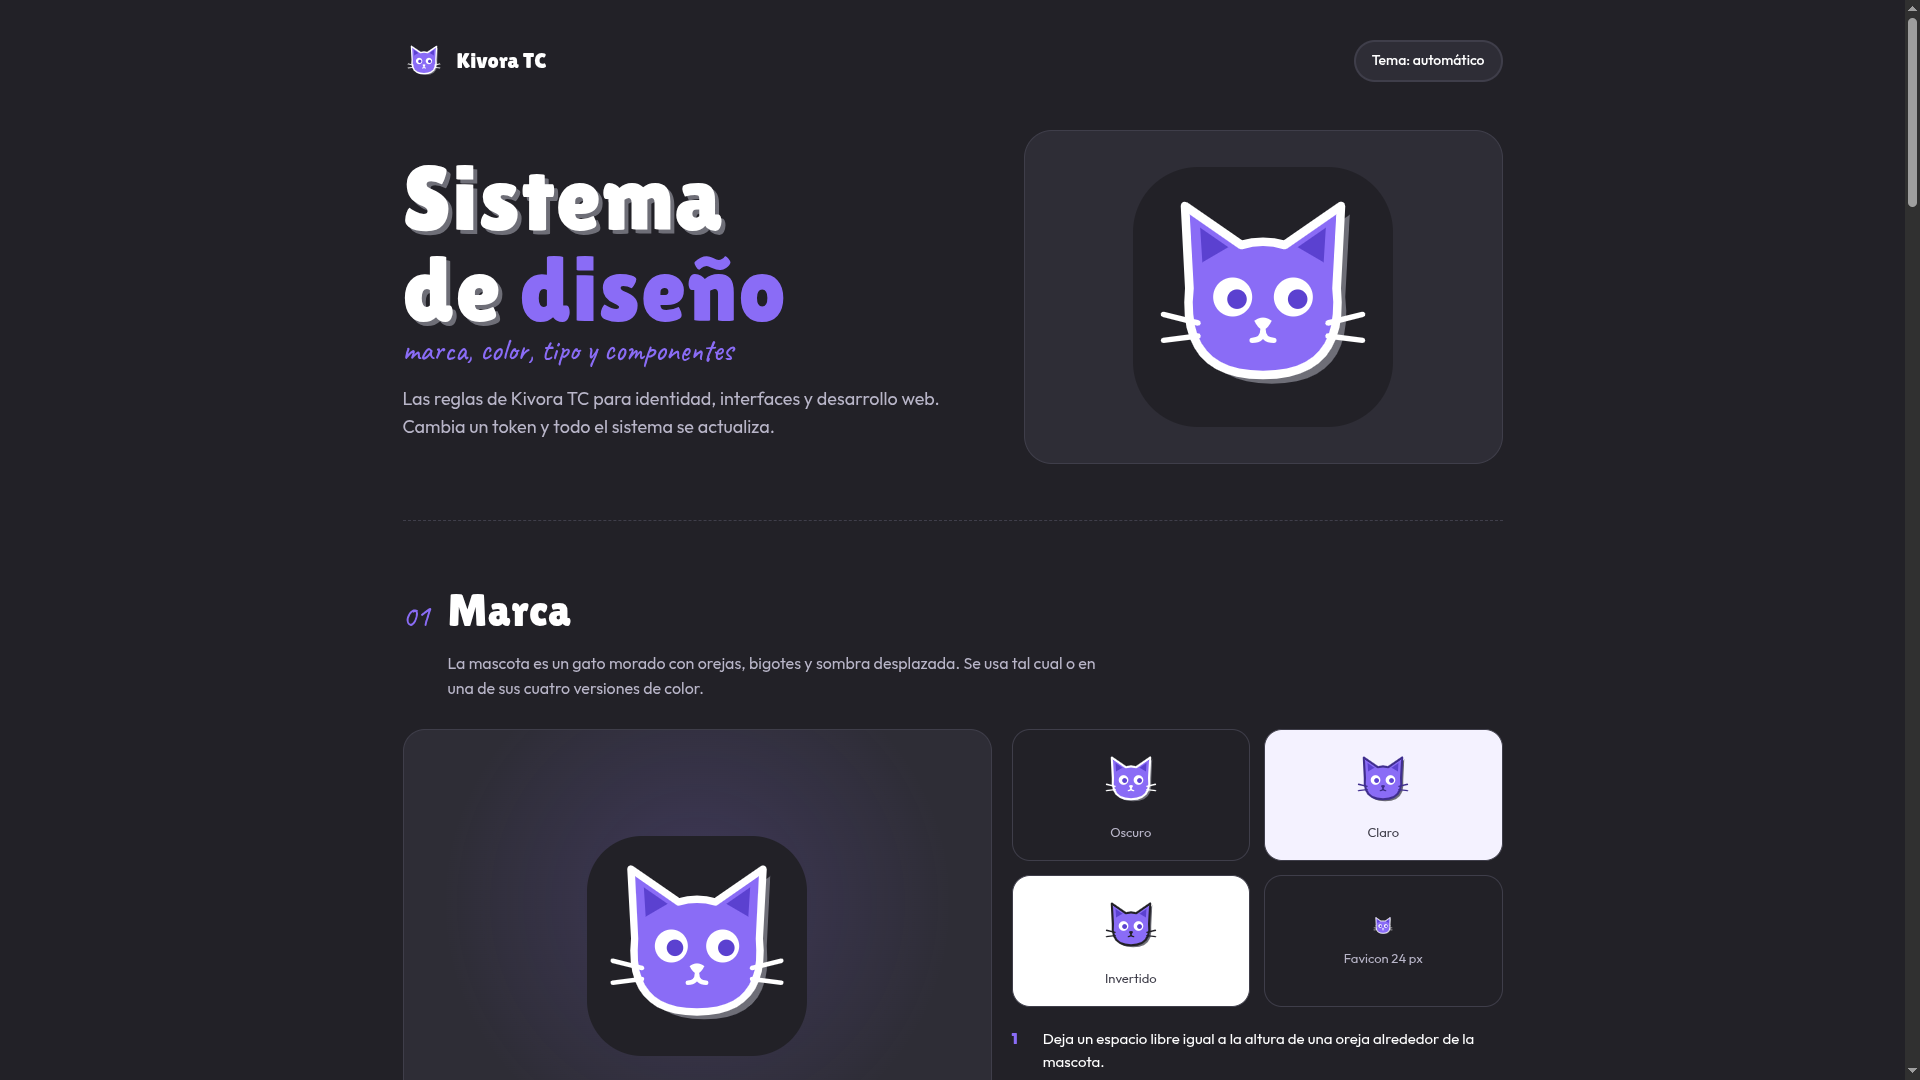
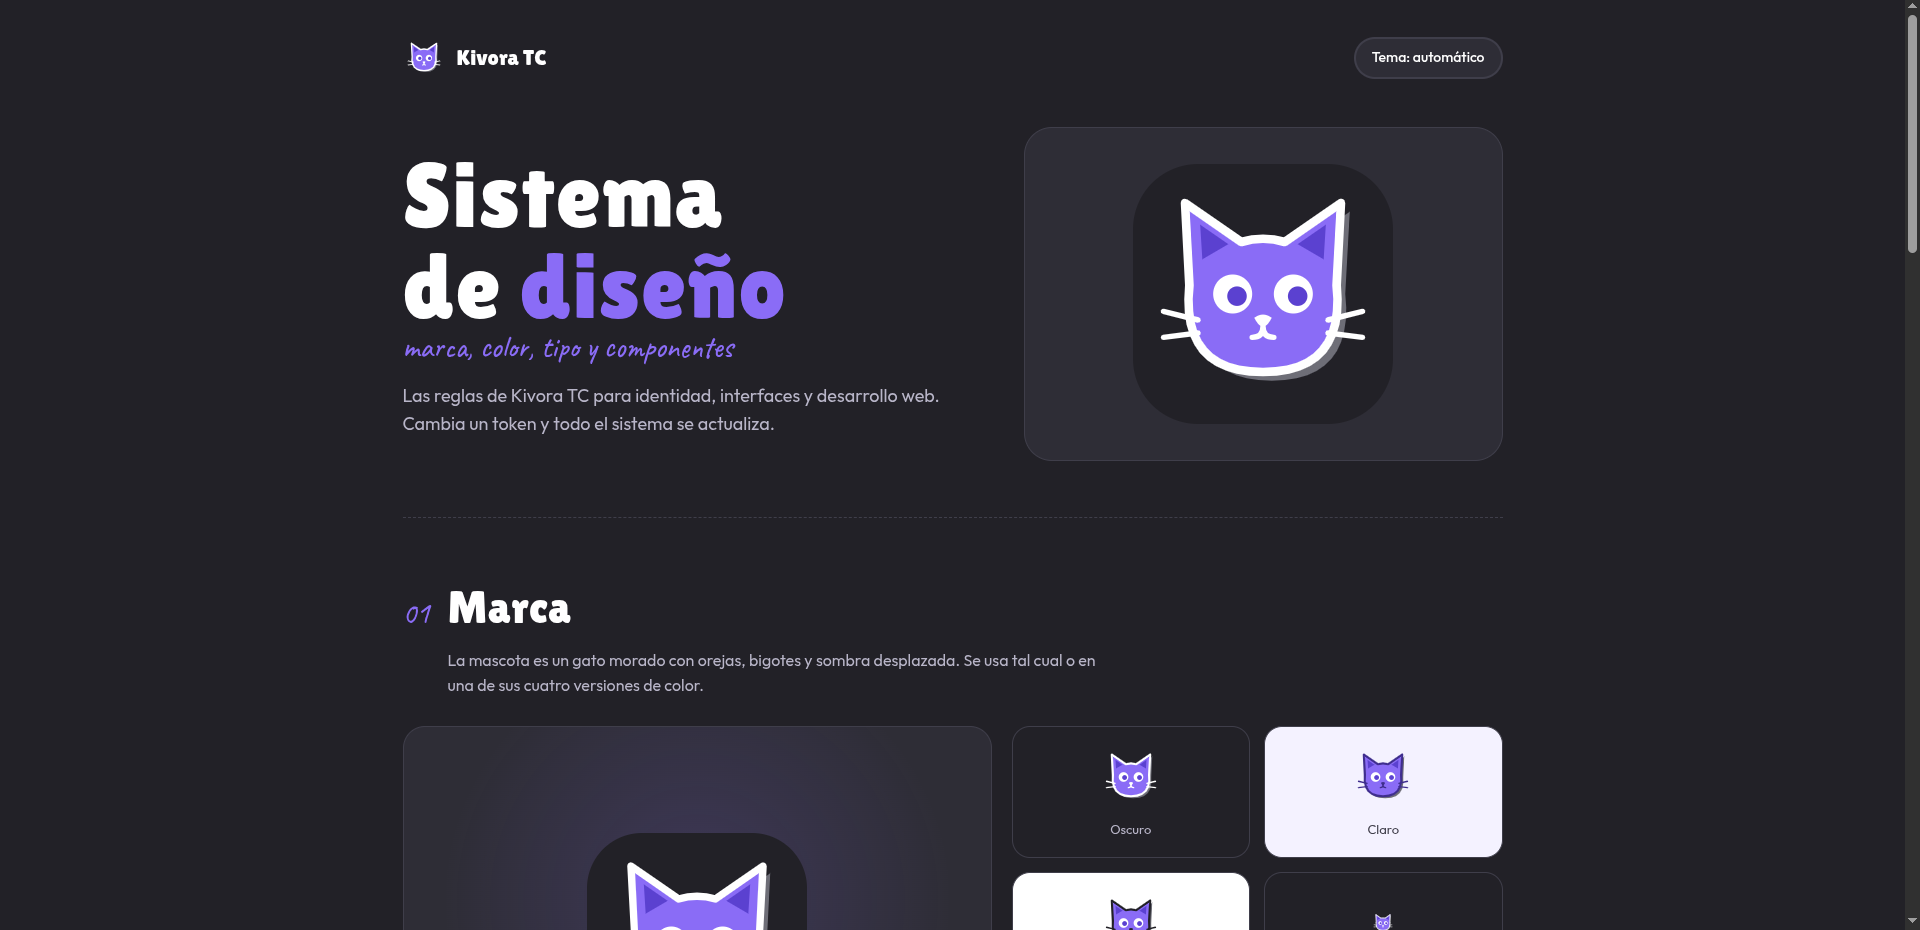
Remove shadows and Platforms and Voice sections

diff --git a/js/datos.js b/js/datos.js
@@ -12,9 +12,9 @@ window.PROYECTOS = [
     categoria: "Identidad",
     anio: 2026,
     destacado: false,
-    resumen: "Color, tipografía, componentes y voz de Kivora TC en un solo lugar.",
+    resumen: "Color, tipografía, marca y componentes de Kivora TC en un solo lugar.",
     descripcion:
-      "Documentación del sistema de diseño de Kivora TC: marca, color, tipografía, componentes, plataformas y tono de voz. Cada pieza usa los mismos tokens, así que cambian juntas.",
+      "Documentación del sistema de diseño de Kivora TC: marca, color, tipografía y componentes. Cada pieza usa los mismos tokens, así que cambian juntas.",
     tecnologias: ["Tokens CSS", "Documentación"],
     enlaces: [
       { nombre: "Ver sistema de diseño", link: "https://kivoratc.github.io/sistema_de_diseno/" },
@@ -23,9 +23,7 @@ window.PROYECTOS = [
     galeria: ["assets/proyectos/sistema-de-diseno/galeria/01-marca.png",
       "assets/proyectos/sistema-de-diseno/galeria/02-color.png",
       "assets/proyectos/sistema-de-diseno/galeria/03-tipografía.png",
-      "assets/proyectos/sistema-de-diseno/galeria/04-componentes.png",
-      "assets/proyectos/sistema-de-diseno/galeria/05-plataformas.png",
-      "assets/proyectos/sistema-de-diseno/galeria/06-voz.png"
+      "assets/proyectos/sistema-de-diseno/galeria/04-componentes.png"
     ],
   },
 ];

diff --git a/css/base.css b/css/base.css
@@ -152,7 +152,7 @@ button:disabled {
   letter-spacing: 0.04em;
 }
 
-/* Botón secundario: borde y texto en fg, fondo transparente, sombra desplazada */
+/* Botón secundario: borde y texto en fg, fondo transparente */
 .boton {
   display: inline-flex;
   align-items: center;
@@ -161,28 +161,16 @@ button:disabled {
   background: transparent;
   border: 2px solid var(--color-texto);
   border-radius: var(--radio-pildora);
-  box-shadow: var(--sombra-desplazada);
   color: var(--color-texto);
   font-weight: 500;
   text-decoration: none;
-  transition: transform 120ms ease, box-shadow 120ms ease;
 }
 
-/* Botón primario: relleno de acento, texto blanco, misma sombra */
+/* Botón primario: relleno de acento, texto blanco */
 .boton--primario {
   background: var(--color-acento);
   border-color: var(--color-acento);
   color: var(--on-accent);
-}
-
-.boton:hover {
-  transform: translate(-2px, -2px);
-  box-shadow: 6px 6px 0 var(--color-sombra);
-}
-
-.boton:active {
-  transform: translate(4px, 4px);
-  box-shadow: 0 0 0 var(--color-sombra);
 }
 
 @media (prefers-reduced-motion: reduce) {

diff --git a/css/paginacion.css b/css/paginacion.css
@@ -24,9 +24,7 @@
   background: var(--color-superficie);
   border: 2px solid var(--color-texto);
   border-radius: var(--radio-pildora);
-  box-shadow: var(--sombra-desplazada);
   cursor: pointer;
-  transition: transform 120ms ease, box-shadow 120ms ease;
 }
 
 .pagina[aria-current="page"] {
@@ -35,13 +33,7 @@
   color: var(--on-accent);
 }
 
-.paginacion button:hover:not(:disabled) {
-  transform: translate(-2px, -2px);
-  box-shadow: 6px 6px 0 var(--color-sombra);
-}
-
 .paginacion button:disabled {
   opacity: 0.5;
   cursor: not-allowed;
-  box-shadow: none;
 }

diff --git a/css/detalle.css b/css/detalle.css
@@ -24,7 +24,6 @@
   background: var(--color-acento);
   border: 2px solid var(--color-texto);
   border-radius: var(--radio);
-  box-shadow: var(--sombra-desplazada);
 }
 
 /* La galería tiene su propio espacio entre el título y las imágenes */
@@ -58,12 +57,6 @@
 
 .galeria-lista img {
   aspect-ratio: 3 / 2;
-  transition: transform 120ms ease, box-shadow 120ms ease;
-}
-
-.galeria-boton:hover img {
-  transform: translate(-2px, -2px);
-  box-shadow: 6px 6px 0 var(--color-sombra);
 }
 
 .detalle-resumen {

diff --git a/css/tokens.css b/css/tokens.css
@@ -28,7 +28,6 @@
   --color-acento-texto: var(--accent);
   --color-acento-oscuro: var(--accent);
   --color-borde: var(--line);
-  --color-sombra: var(--shadow);
 
   /* Tipografía: Lilita One para titulares, Outfit para texto, Caveat para el nombre de la marca */
   --fuente-titulo: "Lilita One", "Arial Black", sans-serif;
@@ -52,7 +51,6 @@
   --radio: 22px;
   --radio-pequeno: 12px;
   --radio-pildora: 999px;
-  --sombra-desplazada: 4px 4px 0 var(--shadow);
   --ancho-max: 1120px;
 }
 

diff --git a/css/tarjeta.css b/css/tarjeta.css
@@ -19,14 +19,7 @@
   color: var(--color-texto);
   border: 2px solid var(--color-borde);
   border-radius: var(--radio);
-  box-shadow: var(--sombra-desplazada);
   text-decoration: none;
-  transition: transform 150ms ease, box-shadow 150ms ease;
-}
-
-.tarjeta:hover {
-  transform: translate(-2px, -2px);
-  box-shadow: 6px 6px 0 var(--color-acento);
 }
 
 .tarjeta h3 {

diff --git a/proyectos.html b/proyectos.html
@@ -12,7 +12,6 @@
   <script src="js/tema.js"></script>
   <link rel="stylesheet" href="css/tokens.css">
   <link rel="stylesheet" href="css/base.css">
-  <link rel="stylesheet" href="css/transiciones.css">
   <link rel="stylesheet" href="css/layout.css">
   <link rel="stylesheet" href="css/tarjeta.css">
   <link rel="stylesheet" href="css/proyectos.css">

diff --git a/proyecto.html b/proyecto.html
@@ -12,7 +12,6 @@
   <script src="js/tema.js"></script>
   <link rel="stylesheet" href="css/tokens.css">
   <link rel="stylesheet" href="css/base.css">
-  <link rel="stylesheet" href="css/transiciones.css">
   <link rel="stylesheet" href="css/layout.css">
   <link rel="stylesheet" href="css/tarjeta.css">
   <link rel="stylesheet" href="css/detalle.css">

diff --git a/index.html b/index.html
@@ -12,7 +12,6 @@
   <script src="js/tema.js"></script>
   <link rel="stylesheet" href="css/tokens.css">
   <link rel="stylesheet" href="css/base.css">
-  <link rel="stylesheet" href="css/transiciones.css">
   <link rel="stylesheet" href="css/layout.css">
   <link rel="stylesheet" href="css/tarjeta.css">
   <link rel="stylesheet" href="css/inicio.css">

diff --git a/js/detalle.js b/js/detalle.js
@@ -39,8 +39,6 @@
     if (p.cover) {
       cover.src = p.cover;
       cover.alt = p.titulo;
-      // Mismo nombre que la tarjeta de origen: la portada se expande en la transición
-      cover.style.viewTransitionName = "portada-" + p.id;
     }
   }
 

diff --git a/css/visor.css b/css/visor.css
@@ -10,7 +10,6 @@
   color: var(--color-texto);
   border: 2px solid var(--color-texto);
   border-radius: var(--radio);
-  box-shadow: 8px 8px 0 var(--color-sombra);
 }
 
 .visor[open] {
